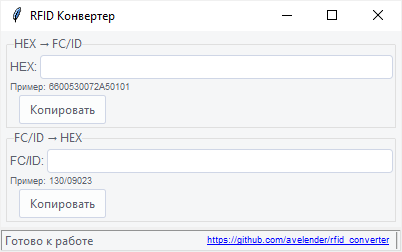
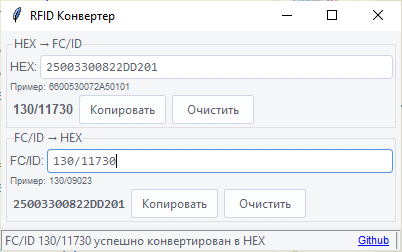
6547

diff --git a/rfid_converter_gui.py b/rfid_converter_gui.py
@@ -1,8 +1,9 @@
 import tkinter as tk
 from tkinter import ttk, messagebox, font
-import re
-import sys
-from ttkthemes import ThemedTk
+try:
+    from ttkthemes import ThemedTk
+except Exception:
+    ThemedTk = None
 
 # Создаем свой класс Entry с поддержкой Ctrl+V независимо от раскладки
 class PasteEntry(ttk.Entry):
@@ -291,7 +292,7 @@ class RFIDConverterApp:
     def on_hex_input_change(self, event=None):
         # Автоматическая конвертация при вводе
         hex_input = self.hex_input.get().strip()
-        if len(hex_input) >= 14:
+        if len(hex_input) >= 16 and len(hex_input) % 2 == 0:
             result = hex_to_fc_id(hex_input)
             self.fcid_result['text'] = result
             
@@ -334,32 +335,14 @@ class RFIDConverterApp:
     
 
 if __name__ == "__main__":
-    try:
-        # Используем ThemedTk для красивой темы
+    # Используем ThemedTk для красивой темы, если доступен
+    if ThemedTk is not None:
         root = ThemedTk(theme="arc")  # Можно выбрать другие темы: "arc", "equilux", "breeze" и т.д.
-    except Exception:
-        # Если не получилось, используем обычный Tk
+    else:
+        # Если ttkthemes недоступен, используем обычный Tk
         root = tk.Tk()
         
-    # Настраиваем обработку вставки для всех платформ
-    # Создаем виртуальное событие для вставки
-    root.event_add('<<PasteText>>', '<Control-v>', '<Control-V>')
-    
-    # Добавляем обработчик для всех Entry
-    def handle_paste(event):
-        try:
-            widget = event.widget
-            if isinstance(widget, tk.Entry) or isinstance(widget, ttk.Entry):
-                clipboard = widget.clipboard_get()
-                if clipboard:
-                    widget.delete(0, tk.END)
-                    widget.insert(0, clipboard)
-                    return "break"
-        except Exception as e:
-            print(f"Ошибка при вставке: {e}")
-    
-    # Привязываем обработчик к виртуальному событию
-    root.bind_class('Entry', '<<PasteText>>', handle_paste)
+    # Вставка обрабатывается непосредственно в PasteEntry
         
     app = RFIDConverterApp(root)
     
